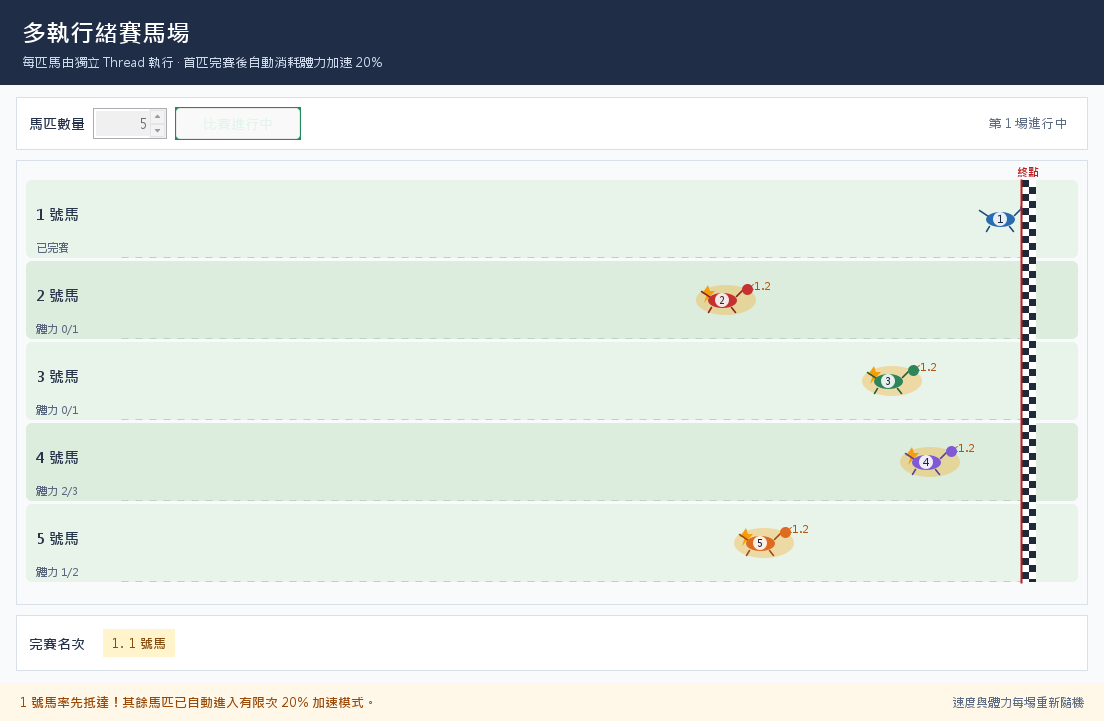
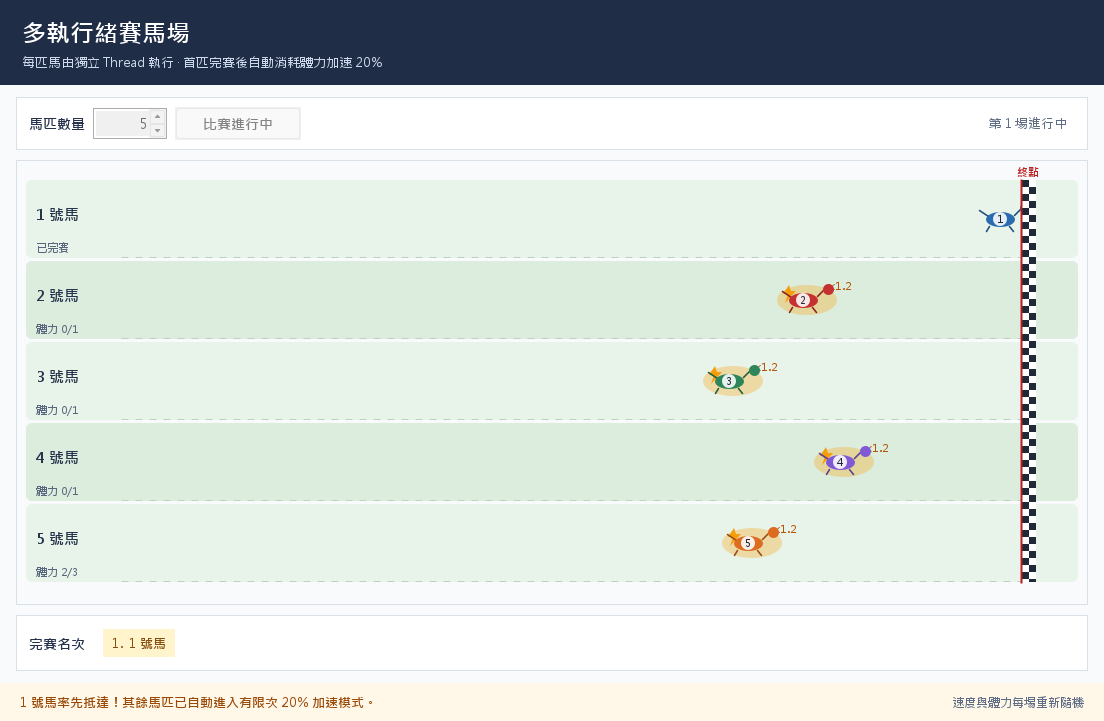
fix: serialize race events and improve GUI states

diff --git a/大三上/作業系統/Lab 1 multi-thread implementation/test/horserace/HorseRaceTest.java b/大三上/作業系統/Lab 1 multi-thread implementation/test/horserace/HorseRaceTest.java
@@ -8,6 +8,7 @@ import java.util.concurrent.CountDownLatch;
 import java.util.concurrent.TimeUnit;
 import java.util.concurrent.atomic.AtomicInteger;
 import java.util.concurrent.atomic.AtomicBoolean;
+import java.util.concurrent.CopyOnWriteArrayList;
 import javax.swing.SwingUtilities;
 
 /** Pure-JDK tests. Run with: java -ea -cp out horserace.HorseRaceTest */
@@ -20,7 +21,9 @@ public final class HorseRaceTest {
         testEveryHorseUsesADistinctThreadAndSpeed();
         testStopTerminatesWorkers();
         testUiDispatchRunsOnEventDispatchThread();
-        System.out.println("PASS: 6 horse-race tests");
+        testFinishEventsArePublishedInRankingOrder();
+        testForeignCallbacksCannotContaminateActiveRace();
+        System.out.println("PASS: 8 horse-race tests");
     }
 
     private static void ensureAssertionsEnabled() {
@@ -133,6 +136,42 @@ public final class HorseRaceTest {
         assert ranOnEdt.get();
     }
 
+    private static void testFinishEventsArePublishedInRankingOrder() throws Exception {
+        BlockingFirstPlaceListener listener = new BlockingFirstPlaceListener();
+        RaceParameters fast = new RaceParameters(12.0, 1L, 5L, 200, 260);
+        RaceController controller = new RaceController(listener, new Random(29L), fast);
+        controller.startRace(3);
+
+        assert listener.firstPlaceEntered.await(2L, TimeUnit.SECONDS);
+        Thread.sleep(80L);
+        assert listener.publishedPlaces.size() == 1 : listener.publishedPlaces;
+        listener.releaseFirstPlace.countDown();
+
+        assert listener.raceFinished.await(2L, TimeUnit.SECONDS);
+        assert controller.awaitTermination(1000L);
+        assert listener.publishedPlaces.size() == 3 : listener.publishedPlaces;
+        assert listener.publishedPlaces.get(0) == 1;
+        assert listener.publishedPlaces.get(1) == 2;
+        assert listener.publishedPlaces.get(2) == 3;
+    }
+
+    private static void testForeignCallbacksCannotContaminateActiveRace() throws Exception {
+        LifecycleListener listener = new LifecycleListener();
+        RaceParameters slow = new RaceParameters(100000.0, 5L, 10L, 100, 200);
+        RaceController controller = new RaceController(listener, new Random(41L), slow);
+        controller.startRace(2);
+
+        Horse foreignHorse = new Horse(1, 150.0, 2, slow, new NoOpHorseEvents());
+        controller.onHorseFinished(foreignHorse);
+        controller.onHorseFailed(foreignHorse, new IllegalStateException("foreign failure"));
+
+        assert controller.isRunning();
+        assert controller.getRanking().isEmpty();
+        assert listener.failureEvents.get() == 0;
+        controller.stopRace();
+        assert controller.awaitTermination(1000L);
+    }
+
     private static boolean allThreadsStarted(List<HorseSnapshot> snapshots) {
         for (HorseSnapshot snapshot : snapshots) {
             if ("尚未啟動".equals(snapshot.getThreadName())) {
@@ -176,6 +215,46 @@ public final class HorseRaceTest {
         }
         @Override public void onRaceFailed(String message) {
             throw new AssertionError(message);
+        }
+    }
+
+    private static final class BlockingFirstPlaceListener implements RaceListener {
+        private final CountDownLatch firstPlaceEntered = new CountDownLatch(1);
+        private final CountDownLatch releaseFirstPlace = new CountDownLatch(1);
+        private final CountDownLatch raceFinished = new CountDownLatch(1);
+        private final List<Integer> publishedPlaces = new CopyOnWriteArrayList<Integer>();
+
+        @Override public void onRaceStarted(List<HorseSnapshot> horses) { }
+        @Override public void onFirstHorseFinished(int horseId) { }
+        @Override public void onHorseFinished(int horseId, int place, List<Integer> ranking) {
+            publishedPlaces.add(place);
+            if (place == 1) {
+                firstPlaceEntered.countDown();
+                try {
+                    releaseFirstPlace.await(2L, TimeUnit.SECONDS);
+                } catch (InterruptedException interrupted) {
+                    Thread.currentThread().interrupt();
+                    throw new AssertionError(interrupted);
+                }
+            }
+        }
+        @Override public void onRaceFinished(List<Integer> ranking) {
+            raceFinished.countDown();
+        }
+        @Override public void onRaceFailed(String message) {
+            throw new AssertionError(message);
+        }
+    }
+
+    private static final class LifecycleListener implements RaceListener {
+        private final AtomicInteger failureEvents = new AtomicInteger();
+
+        @Override public void onRaceStarted(List<HorseSnapshot> horses) { }
+        @Override public void onFirstHorseFinished(int horseId) { }
+        @Override public void onHorseFinished(int horseId, int place, List<Integer> ranking) { }
+        @Override public void onRaceFinished(List<Integer> ranking) { }
+        @Override public void onRaceFailed(String message) {
+            failureEvents.incrementAndGet();
         }
     }
 }

diff --git a/大三上/作業系統/Lab 1 multi-thread implementation/src/horserace/RaceFrame.java b/大三上/作業系統/Lab 1 multi-thread implementation/src/horserace/RaceFrame.java
@@ -40,7 +40,6 @@ public final class RaceFrame extends JFrame implements RaceListener {
     private static final Color NAVY = new Color(32, 45, 70);
     private static final Color TEXT = new Color(38, 50, 75);
     private static final Color MUTED = new Color(94, 108, 132);
-    private static final Color GREEN = new Color(31, 139, 87);
     private static final Color PALE_GREEN = new Color(232, 247, 239);
     private static final Color PALE_ORANGE = new Color(255, 247, 232);
 
@@ -59,6 +58,7 @@ public final class RaceFrame extends JFrame implements RaceListener {
     private final Timer repaintTimer;
     private volatile int displayedRankingCount;
     private volatile boolean displayedBoosting;
+    private volatile boolean displayedRaceComplete;
     private int raceNumber;
 
     public RaceFrame() {
@@ -92,8 +92,6 @@ public final class RaceFrame extends JFrame implements RaceListener {
         } catch (Exception ignored) {
             // The cross-platform Swing look and feel remains a safe fallback.
         }
-        UIManager.put("Button.disabledText", new Color(226, 245, 235));
-        UIManager.put("Button.disabledForeground", new Color(226, 245, 235));
     }
 
     private void buildInterface() {
@@ -157,8 +155,6 @@ public final class RaceFrame extends JFrame implements RaceListener {
 
         constraints.gridx = 2;
         startButton.setFont(uiFont(Font.BOLD, 14));
-        startButton.setForeground(Color.WHITE);
-        startButton.setBackground(GREEN);
         startButton.setFocusPainted(false);
         startButton.setPreferredSize(new Dimension(126, 33));
         controls.add(startButton, constraints);
@@ -233,6 +229,7 @@ public final class RaceFrame extends JFrame implements RaceListener {
         rankingItems.removeAll();
         displayedRankingCount = 0;
         displayedBoosting = false;
+        displayedRaceComplete = false;
         rankingItems.revalidate();
         rankingItems.repaint();
         raceNumberLabel.setText("第 " + raceNumber + " 場進行中");
@@ -254,7 +251,9 @@ public final class RaceFrame extends JFrame implements RaceListener {
     public void onFirstHorseFinished(final int horseId) {
         dispatchOnEdt(new Runnable() {
             @Override public void run() {
-                setStatus(horseId + " 號馬率先抵達！其餘馬匹已自動進入有限次 20% 加速模式。", true);
+                if (!displayedRaceComplete) {
+                    setStatus(horseId + " 號馬率先抵達！其餘馬匹已自動進入有限次 20% 加速模式。", true);
+                }
             }
         });
     }
@@ -273,6 +272,7 @@ public final class RaceFrame extends JFrame implements RaceListener {
         dispatchOnEdt(new Runnable() {
             @Override public void run() {
                 repaintTimer.stop();
+                displayedRaceComplete = true;
                 racePanel.setSnapshots(controller.getSnapshots());
                 updateRanking(ranking);
                 horseCountSpinner.setEnabled(true);
@@ -298,6 +298,9 @@ public final class RaceFrame extends JFrame implements RaceListener {
     }
 
     private void updateRanking(List<Integer> ranking) {
+        if (ranking.size() < displayedRankingCount) {
+            return;
+        }
         rankingItems.removeAll();
         displayedRankingCount = ranking.size();
         for (int index = 0; index < ranking.size(); index++) {
@@ -333,8 +336,16 @@ public final class RaceFrame extends JFrame implements RaceListener {
         startSelectedRace();
     }
 
+    void setHorseCountForCapture(int horseCount) {
+        horseCountSpinner.setValue(horseCount);
+    }
+
     boolean isRaceRunningForCapture() {
         return controller.isRunning();
+    }
+
+    boolean isRaceCompleteVisibleForCapture(int expectedHorseCount) {
+        return displayedRaceComplete && displayedRankingCount == expectedHorseCount;
     }
 
     int getFinishedCountForCapture() {

diff --git a/大三上/作業系統/Lab 1 multi-thread implementation/src/horserace/RacePanel.java b/大三上/作業系統/Lab 1 multi-thread implementation/src/horserace/RacePanel.java
@@ -95,23 +95,23 @@ public final class RacePanel extends JPanel {
     }
 
     private void drawLaneLabel(Graphics2D g2, HorseSnapshot horse, int id, int laneY, int laneHeight) {
-        g2.setFont(uiFont(Font.BOLD, laneHeight < 46 ? 13 : 15));
+        boolean compact = laneHeight < 46;
+        g2.setFont(uiFont(Font.BOLD, compact ? 12 : 15));
         g2.setColor(new Color(39, 53, 76));
-        g2.drawString(id + " 號馬", 20, laneY + Math.max(17, laneHeight / 2));
+        int titleBaseline = laneY + (compact ? 15 : Math.max(17, laneHeight / 2));
+        g2.drawString(id + " 號馬", 20, titleBaseline);
 
-        if (laneHeight >= 46) {
-            g2.setFont(uiFont(Font.PLAIN, 11));
-            g2.setColor(new Color(88, 102, 126));
-            String detail;
-            if (horse == null) {
-                detail = "等待起跑";
-            } else if (horse.isFinished()) {
-                detail = "已完賽";
-            } else {
-                detail = "體力 " + horse.getStaminaRemaining() + "/" + horse.getInitialStamina();
-            }
-            g2.drawString(detail, 20, laneY + laneHeight - 9);
+        g2.setFont(uiFont(Font.PLAIN, compact ? 10 : 11));
+        g2.setColor(new Color(88, 102, 126));
+        String detail;
+        if (horse == null) {
+            detail = "等待起跑";
+        } else if (horse.isFinished()) {
+            detail = "已完賽";
+        } else {
+            detail = "體力 " + horse.getStaminaRemaining() + "/" + horse.getInitialStamina();
         }
+        g2.drawString(detail, 20, laneY + laneHeight - (compact ? 6 : 9));
     }
 
     private void drawFinishLine(Graphics2D g2, int x, int y, int height) {
@@ -190,4 +190,3 @@ public final class RacePanel extends JPanel {
         return new Font("Microsoft JhengHei", style, size);
     }
 }
-

diff --git a/大三上/作業系統/Lab 1 multi-thread implementation/src/horserace/RaceController.java b/大三上/作業系統/Lab 1 multi-thread implementation/src/horserace/RaceController.java
@@ -13,6 +13,7 @@ public final class RaceController implements Horse.Events {
     public static final int MAX_HORSES = 10;
 
     private final Object lock = new Object();
+    private final Object eventPublicationLock = new Object();
     private final RaceListener listener;
     private final Random random;
     private final RaceParameters parameters;
@@ -92,6 +93,12 @@ public final class RaceController implements Horse.Events {
 
     @Override
     public void onHorseFinished(Horse horse) {
+        synchronized (eventPublicationLock) {
+            publishHorseFinished(horse);
+        }
+    }
+
+    private void publishHorseFinished(Horse horse) {
         List<Horse> horsesToBoost = Collections.emptyList();
         List<Integer> rankingCopy;
         int place;
@@ -99,6 +106,9 @@ public final class RaceController implements Horse.Events {
         boolean raceComplete;
 
         synchronized (lock) {
+            if (!running || !horses.contains(horse)) {
+                return;
+            }
             if (!finishedIds.add(horse.getId())) {
                 return;
             }
@@ -137,9 +147,15 @@ public final class RaceController implements Horse.Events {
 
     @Override
     public void onHorseFailed(Horse horse, Throwable failure) {
+        synchronized (eventPublicationLock) {
+            publishHorseFailure(horse, failure);
+        }
+    }
+
+    private void publishHorseFailure(Horse horse, Throwable failure) {
         List<Horse> horsesToStop;
         synchronized (lock) {
-            if (!running) {
+            if (!running || !horses.contains(horse)) {
                 return;
             }
             running = false;

diff --git a/大三上/作業系統/Lab 1 multi-thread implementation/tools/horserace/ScreenshotGenerator.java b/大三上/作業系統/Lab 1 multi-thread implementation/tools/horserace/ScreenshotGenerator.java
@@ -14,6 +14,7 @@ public final class ScreenshotGenerator {
         final Path outputDirectory = args.length == 0
                 ? Paths.get("screenshots").toAbsolutePath()
                 : Paths.get(args[0]).toAbsolutePath();
+        final int horseCount = args.length < 2 ? 5 : Integer.parseInt(args[1]);
         final AtomicReference<RaceFrame> frameReference = new AtomicReference<RaceFrame>();
 
         SwingUtilities.invokeAndWait(new Runnable() {
@@ -26,10 +27,15 @@ public final class ScreenshotGenerator {
 
         final RaceFrame frame = frameReference.get();
         try {
+            SwingUtilities.invokeAndWait(new Runnable() {
+                @Override public void run() {
+                    frame.setHorseCountForCapture(horseCount);
+                }
+            });
             capture(frame, outputDirectory.resolve("01-ready.png"));
             SwingUtilities.invokeAndWait(new Runnable() {
                 @Override public void run() {
-                    frame.startRaceForCapture(5);
+                    frame.startRaceForCapture(horseCount);
                 }
             });
 
@@ -45,7 +51,7 @@ public final class ScreenshotGenerator {
 
             waitUntil(new BooleanSupplier() {
                 @Override public boolean getAsBoolean() {
-                    return !frame.isRaceRunningForCapture();
+                    return frame.isRaceCompleteVisibleForCapture(horseCount);
                 }
             }, 15000L, "Timed out waiting for the completed race");
             flushEdt();

diff --git a/大三上/作業系統/Lab 1 multi-thread implementation/README.md b/大三上/作業系統/Lab 1 multi-thread implementation/README.md
@@ -55,7 +55,7 @@ java -ea -cp out horserace.HorseRaceTest
 成功時會顯示：
 
 ```text
-PASS: 6 horse-race tests
+PASS: 8 horse-race tests
 ```
 
 ## 重新產生 GUI 截圖
